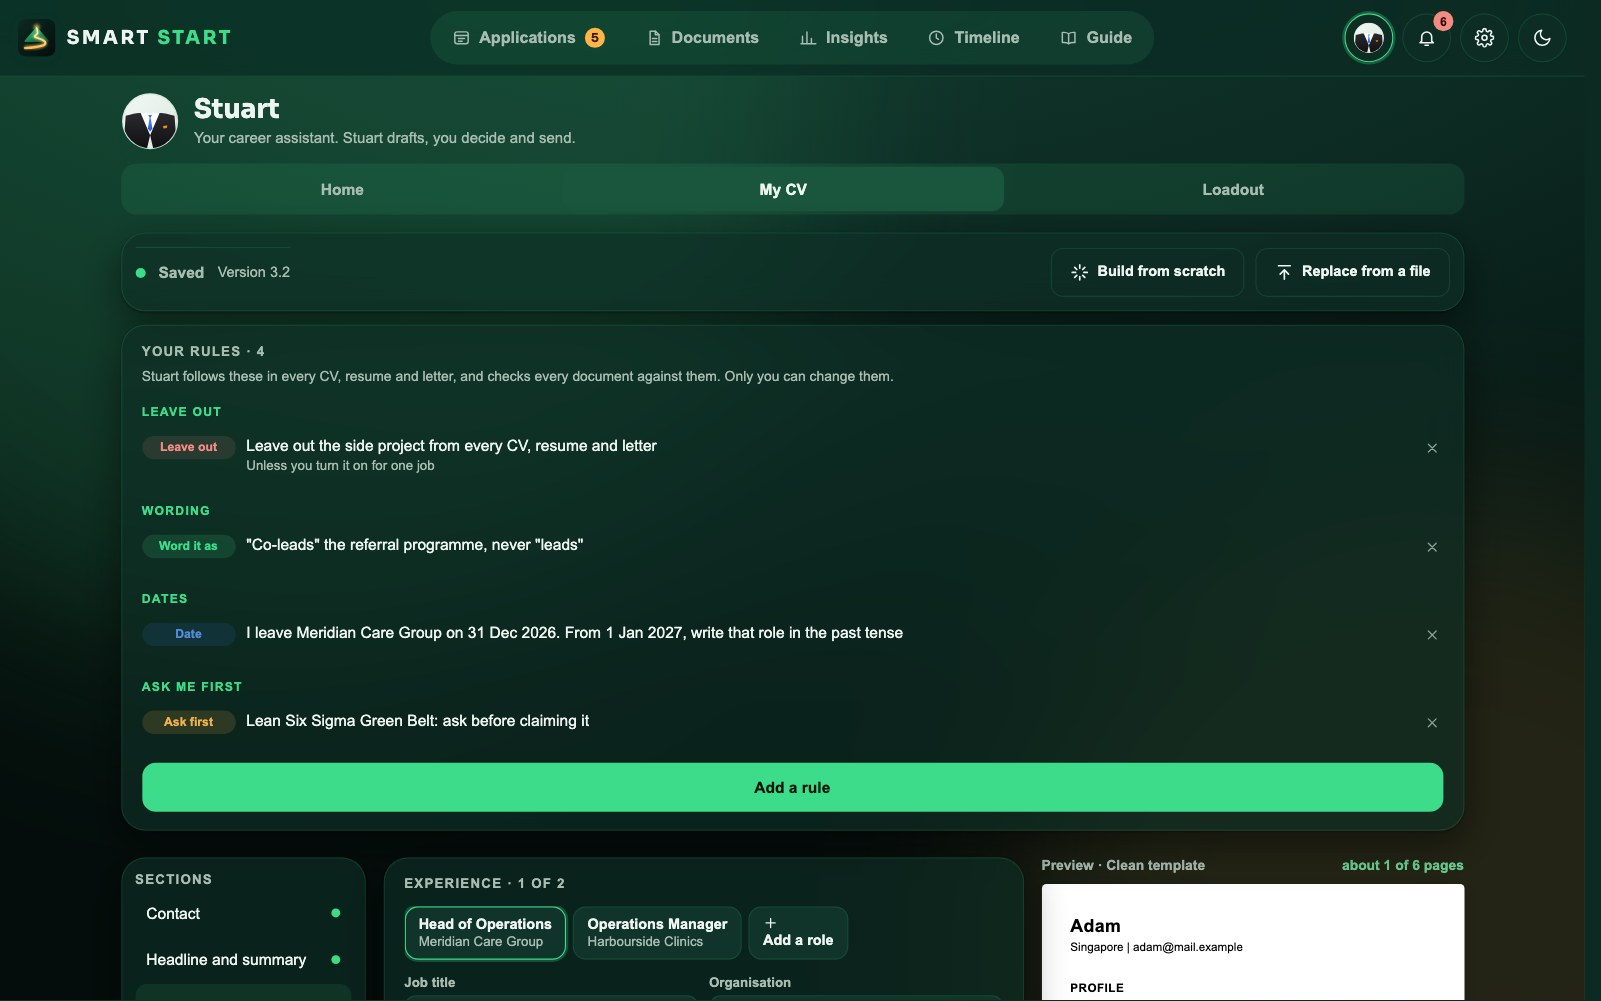
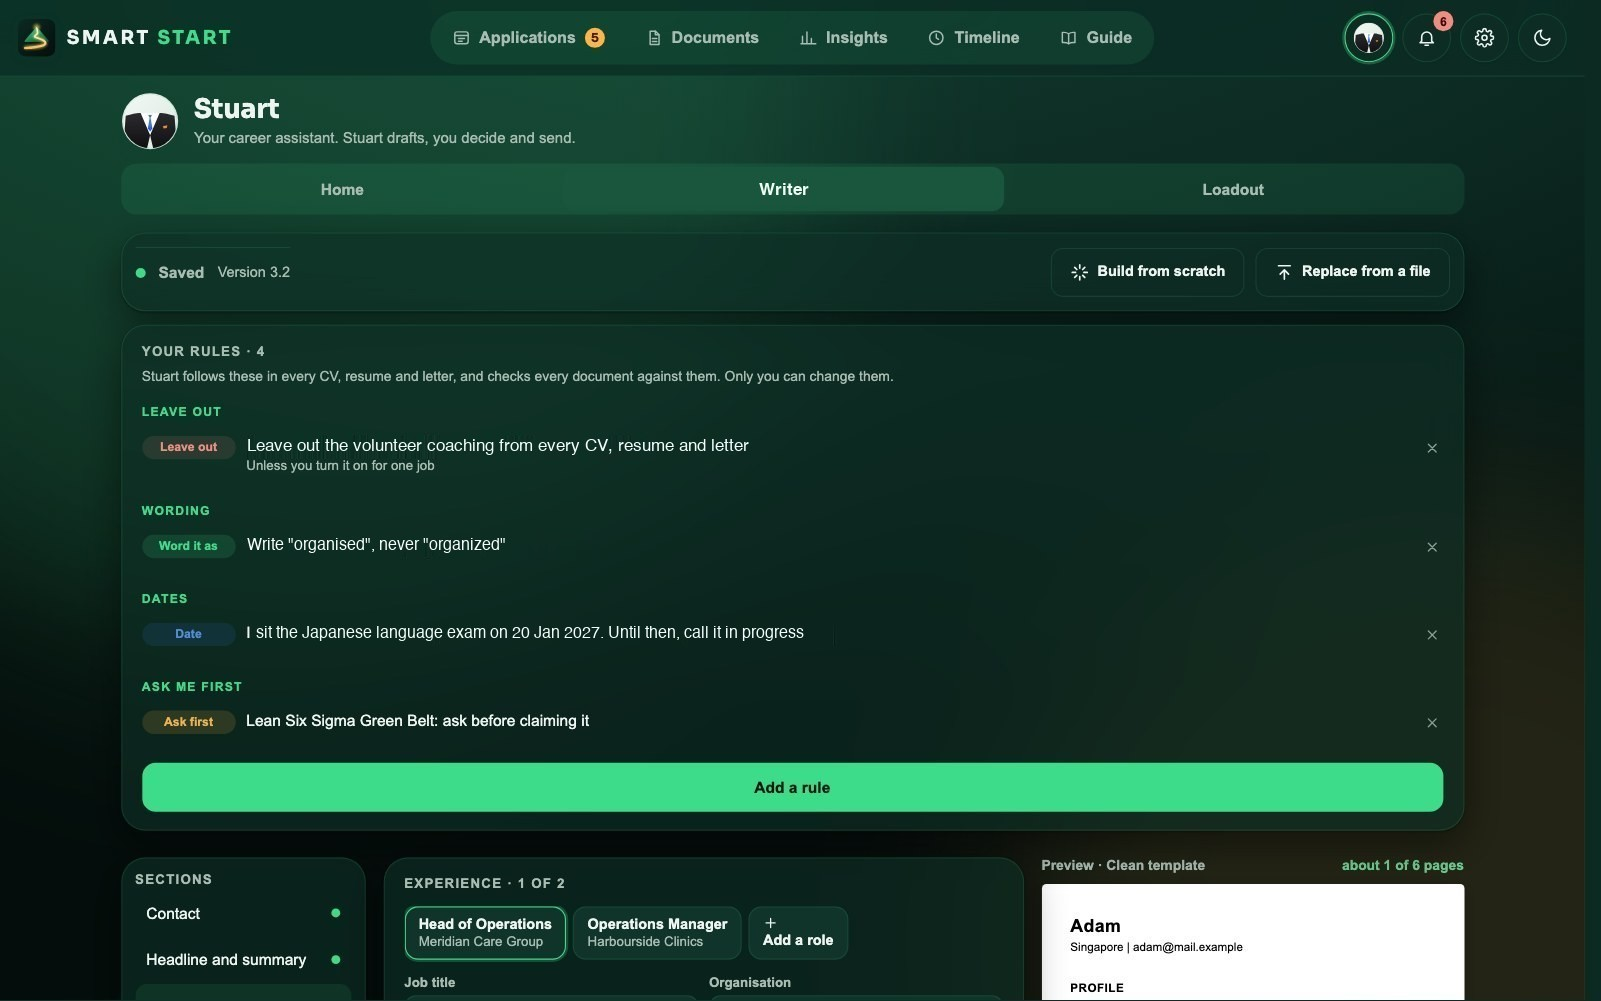
Smart Start 2.47.7: desktop preview with the new sample rules

diff --git a/SmartStart/index.html b/SmartStart/index.html
@@ -1930,7 +1930,7 @@ const ssConfirm=(m,o)=>ssDialog(m,o), ssAlert=m=>ssDialog(m,{alert:true});
 const fmt=iso=>{ if(!iso) return ""; const d=new Date(iso+"T00:00:00"); return isNaN(d)?iso:d.toLocaleDateString("en-GB",{day:"numeric",month:"short"}) };
 const days=iso=>{ if(!iso) return null; return Math.round((TODAY-new Date(iso+"T00:00:00"))/864e5) };
 const isoD=d=>d.toISOString().slice(0,10);
-const APP_VERSION="2.47.6", APP_BUILD="2026-11-14";
+const APP_VERSION="2.47.7", APP_BUILD="2026-11-14";
 let OWNER=false;
 const DRY=params.get("dryrun")==="1", IMPDEMO=MODE==="local"&&params.has("importdemo");
 let LOCAL_RAW=null, TR=null, STM=null, STORE=null, SS=null;
@@ -3328,7 +3328,7 @@ render();
 (()=>{ const box=document.getElementById("tourdesk"); if(!box) return;
   const F=[["What needs you, first","Interviews, follow-ups and closing dates, at the top."],["See the fit before you apply","The fit score, hard screens and a likelihood band with reasons."],["Know what the ATS looks for","The keywords your CV has and the ones it is missing."],["Never miss a closing date","Every deadline on one calendar."],["Meet Stuart, your AI assistant","Tailored, ATS-ready CVs, resumes and cover letters for every job."],["No CV yet? Stuart builds it","One question at a time, from scratch."],["See what's working","Reply rate, pace and where to aim next."],["Your records stay yours","Sign-in only. Private mode. Export or close any time."]];
   const wide=matchMedia("(min-width:900px)"); let i=0, manual=false, last=0;
-  const src=n=>"preview/desk/"+(isDark()?"dark":"light")+"-"+(n+1)+".jpg?v=2";
+  const src=n=>"preview/desk/"+(isDark()?"dark":"light")+"-"+(n+1)+".jpg?v=3";
   box.innerHTML='<div class="tdesk__list" role="tablist" aria-label="Features">'+F.map((x,n)=>'<button type="button" role="tab" class="tdesk__it" data-n="'+n+'"><b>'+esc(x[0])+'</b><small>'+esc(x[1])+'</small></button>').join("")+'<button type="button" class="tdesk__film" id="tdesk-film"><span aria-hidden="true">▶</span> Watch the 60-second film</button></div><div class="tdesk__lap"><div class="tdesk__scr"><i></i><img class="tdesk__img" alt="" id="tdesk-img"></div><div class="tdesk__base"><i></i></div><div class="tour__dots tdesk__dots" aria-hidden="true">'+F.map(()=>"<i></i>").join("")+'</div></div>';
   const img=$("#tdesk-img"), tabs=[...box.querySelectorAll(".tdesk__it")], dots=[...box.querySelectorAll(".tdesk__dots i")];
   const paint=()=>{ tabs.forEach((t,n)=>{ t.classList.toggle("on",n===i); t.setAttribute("aria-selected",String(n===i)); }); dots.forEach((d,n)=>d.classList.toggle("on",n===i)); img.alt=F[i][0]+": sample data"; img.setAttribute("src",src(i)); };

diff --git a/SmartStart/sw.js b/SmartStart/sw.js
@@ -2,7 +2,7 @@
 // Firestore and is cached by the Firestore SDK after sign-in; data.json is never
 // served from the hosted site and never cached here. Firebase and font requests
 // pass straight through.
-const VERSION = 'smartstart-v141';  // app 2.47.6, terms 1.4
+const VERSION = 'smartstart-v142';  // app 2.47.7, terms 1.4
 const SHELL = ['./', './index.html', './manifest.webmanifest', './firebase-config.js',
   './stuart.js', './admin.js', './privacy.html', './terms.html',
   './icons/smartstart-icon-light.svg?v=3', './icons/smartstart-icon-dark.svg?v=3', './icons/stuart.svg', './icons/smartstart-icon-light-180.png?v=3'];
